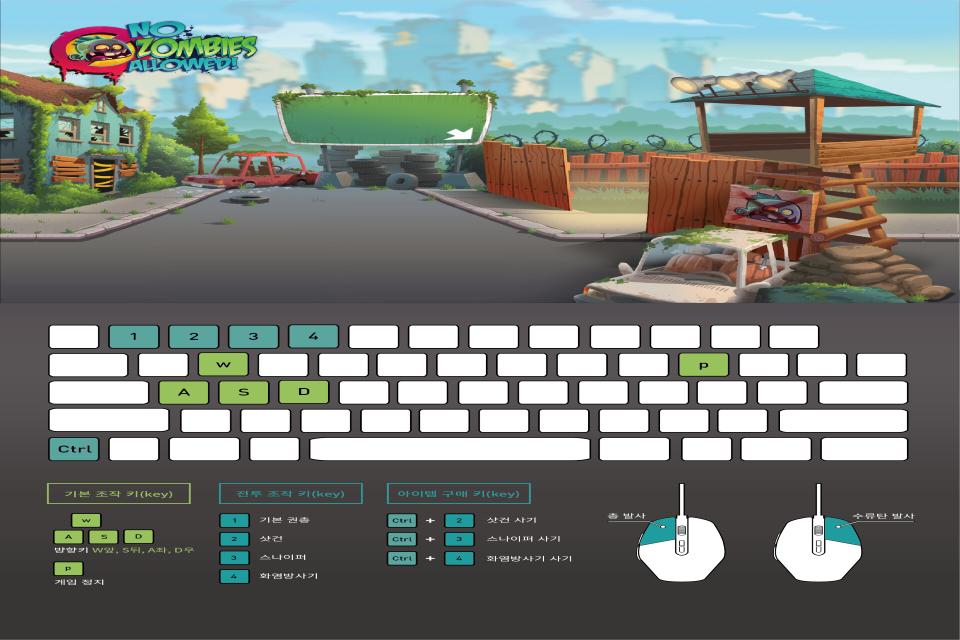
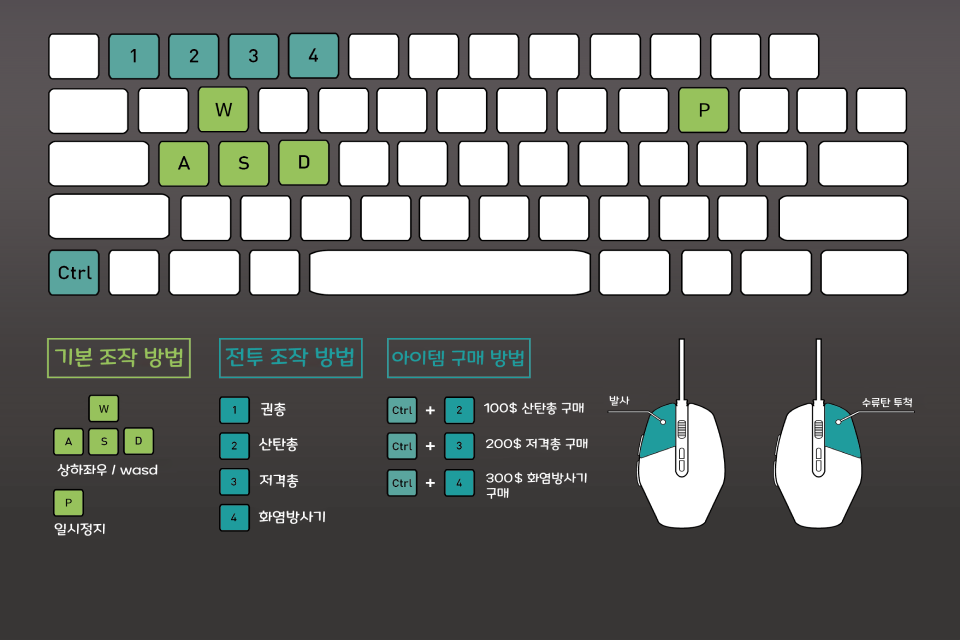
[Update] README, [ADD] Images, requirements

diff --git a/setting.py b/setting.py
@@ -6,8 +6,8 @@ TITLE = "Zombie Survival"
 WIDTH = 960
 HEIGHT = 640
 
-EXPLAIN_GUN = True
-EXPLAIN_ITEM = True
+EXPLAIN_GUN = False
+EXPLAIN_ITEM = False
 
 FPS = 60
 WINDOW_SIZE = [WIDTH,HEIGHT]

diff --git a/README.md b/README.md
@@ -1,22 +1,25 @@
-# Zombie Survival  
-※만약 실행이 되지 않는다면 pytmx와 pytweening을 설치해주세요!(pip 이용)※  
+# 🧟♂Zombie Survival🧟♀  
 
+# 📖게임 설명
 세상이 좀비로 뒤덮였다!  
 좀비를 처치하고, 살아남아라!  
-게임방법:  
-w,a,s,d로 이동  
-클릭으로 발사  
-우클릭으로 수류탄 투척  
-1,2,3,4번으로 총기교체  
-ctrl+2,3,4로 총기 구매(1번 총은 무한)  
+![option](./Image/explain.png "Title")  
 
-맵에서 아이템이 생성됩니다.  
-아이템 효과:  
+
+# 🎮How to play
+![option](./Image/option2.png "Title")  
+  
+# 📦Items
 특정 시간동안 이동속도 증가  
 수류탄 3개 추가  
 특정 시간동안 공격력 증가  
 체력 회복  
 방어력 추가  
 
-pytmx, pytweening package download needed.
+# 🛠 Requirements
+pygame==2.3.0  
+PyTMX==3.31  
+pytweening==1.0.4  
 
+pip install -r requirements.txt
+이용하여 패키지 다운로드
